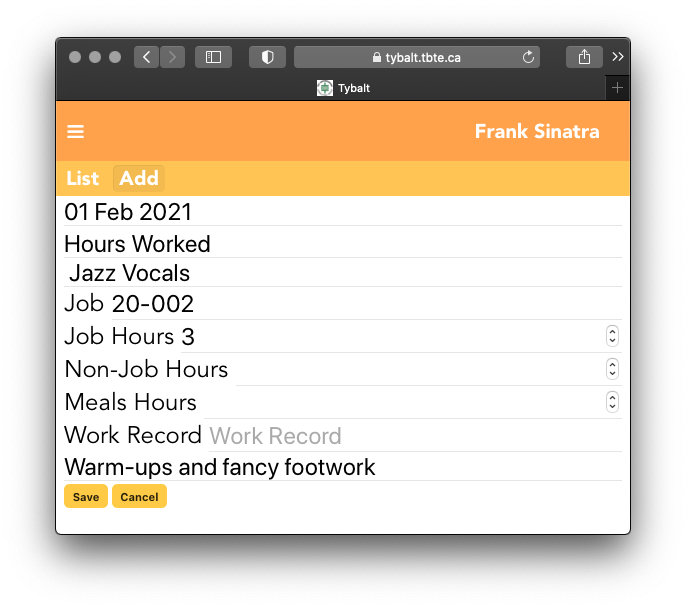
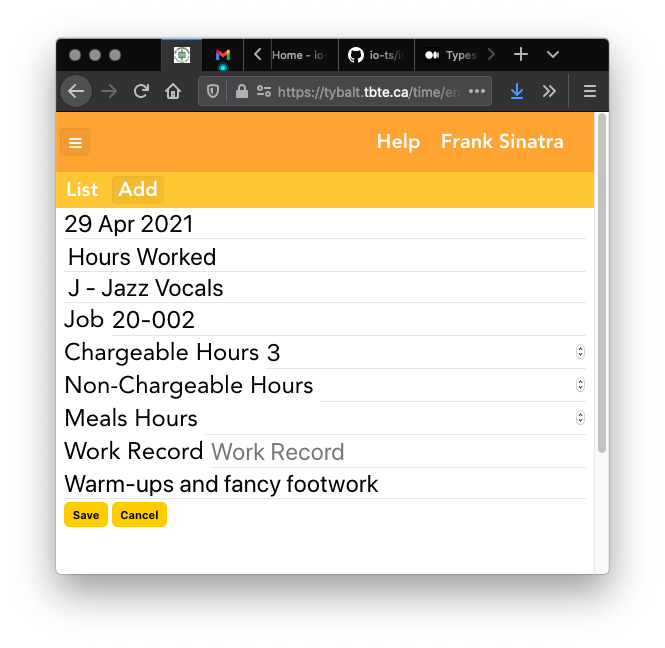
update Time Sheet documentation

Changed region(s): [[0.0602, 0.0312, 0.9323, 0.9375]]

diff --git a/tybalt-entering-time.md b/tybalt-entering-time.md
@@ -10,7 +10,7 @@ Most staff will use Tybalt for entering their time worked. Previously, staff had
   <img width="600px" src="https://github.com/stamler/tbte-docs/blob/master/tybalt-images/createEntry.png">
 </p>
 
-Time entries are the most basic unit of time. They contain a single description of an event that an employee worked on. Validations are run on each time entry every time they're saved helping to minimize errors. Think of time entries as individual rows of the old time sheet system. Tybalt introduces some benefits. You can set a default division so it is automatically selected each time you make a time entry. Job numbers can only be entered if they already exist in Tybalt. This ensures that you aren't accidentally making up jobs that don't exist! Fields that aren't allowed for a given time type are hidden when you select that time type. For example, if you've selected PPTO you won't be able to enter job hours. More checks will be added in the future to speed your workflow.
+Time entries are the most basic unit of time. They contain a single description of an event that an employee worked on. Validations are run on each time entry every time they're saved helping to minimize errors. Think of time entries as individual rows of the old time sheet system. Tybalt introduces some benefits. You can set a *default division* so it is automatically selected each time you make a time entry. Job numbers can only be entered if they already exist in Tybalt. This ensures that you aren't accidentally making up jobs that don't exist! Fields that aren't allowed for a given time type are hidden when you select that time type. For example, if you've selected PPTO you won't be able to enter chargeable hours. More checks will be added in the future to speed your workflow.
 
 ## 2. Submitting a Time Sheet
 
@@ -25,8 +25,10 @@ Time sheets are not manually created. Instead, at the end of a week when you've 
   <img width="600px" src="https://github.com/stamler/tbte-docs/blob/master/tybalt-images/submitEdit.png">
 </p>
 
-If you submit your time sheet and then realize you've made a mistake, as long as your manager hasn't already approved it, you can recall it. You do this by clicking the rewind ![Recall](https://github.com/stamler/tbte-docs/blob/master/tybalt-images/recall.png) icon. If your manager has already approved it and administration hasn't already locked the time sheet for running payroll and invoicing, you can ask your manager to reject the time sheet. Once this is done you must recall the rejected time sheet and unbundle it then bundle it again before it can be resubmitted to your manager. If your time sheet was approved and locked and you later discover there were errors or omissions, you must submit a manual amendment request on a spreadsheet. Amendments are entered by administrators and because of their retroactive nature are represented in reports for the week they were entered rather than for the week the time was accrued in.
+If you submit your time sheet and then realize you've made a mistake, as long as your manager hasn't already approved it, you can recall it. You do this by clicking the rewind ![Recall](https://github.com/stamler/tbte-docs/blob/master/tybalt-images/recall.png) icon. If your manager has already approved it and administration hasn't already locked the time sheet for running payroll and invoicing, you can ask your manager to reject the time sheet. Once this is done you must recall the rejected time sheet and unbundle it then submit it again. If your time sheet was approved and locked and you later discover there were errors or omissions, you must submit a manual amendment request on a spreadsheet. Amendments are entered by administrators and because of their retroactive nature are represented in reports for the week they were entered rather than for the week the time was accrued in.
+
+If you are a manger who approves his or her own time sheet, clicking the submit button underneath your entries *also* approves the timesheet, saving you the requirement of manually approving your own timesheet. If however, you want to recall the time sheet because you've made an error, you'll first have to reject your own time sheet, then you can recall it.
 
 ## 4. If Your Time Sheet Is Rejected
 
-Your manager may choose to reject your time sheet for a variety of reasons. If a manager elects to reject a time sheet, they must provide you a reason. You will see this rejection reason and it will help them make the necessary changes. If your time sheet was rejected, read the reason then recall ![Recall](https://github.com/stamler/tbte-docs/blob/master/tybalt-images/recall.png) the time sheet and unbundle ![Edit](https://github.com/stamler/tbte-docs/blob/master/tybalt-images/editIcon.png) it. The time entries will once again be visible and you can make changes to individual entries, delete entries, or add new entries as necessary based on the instructions in the rejection. Finally you can bundle ![Bundle](https://github.com/stamler/tbte-docs/blob/master/tybalt-images/bundleIcon.png) the entries again and submit ![Submit](https://github.com/stamler/tbte-docs/blob/master/tybalt-images/submitIcon.png) your time sheet for approval a second time.
+Your manager may choose to reject your time sheet for a variety of reasons. If a manager elects to reject a time sheet, they must provide you a reason. You will see this rejection reason and it will help them make the necessary changes. If your time sheet was rejected, read the reason then recall ![Recall](https://github.com/stamler/tbte-docs/blob/master/tybalt-images/recall.png) the time sheet and unbundle ![Edit](https://github.com/stamler/tbte-docs/blob/master/tybalt-images/editIcon.png) it. The time entries will once again be visible and you can make changes to individual entries, delete entries, or add new entries as necessary based on the instructions in the rejection. Finally you can submit ![Submit](https://github.com/stamler/tbte-docs/blob/master/tybalt-images/submitIcon.png) your time sheet for approval a second time.
